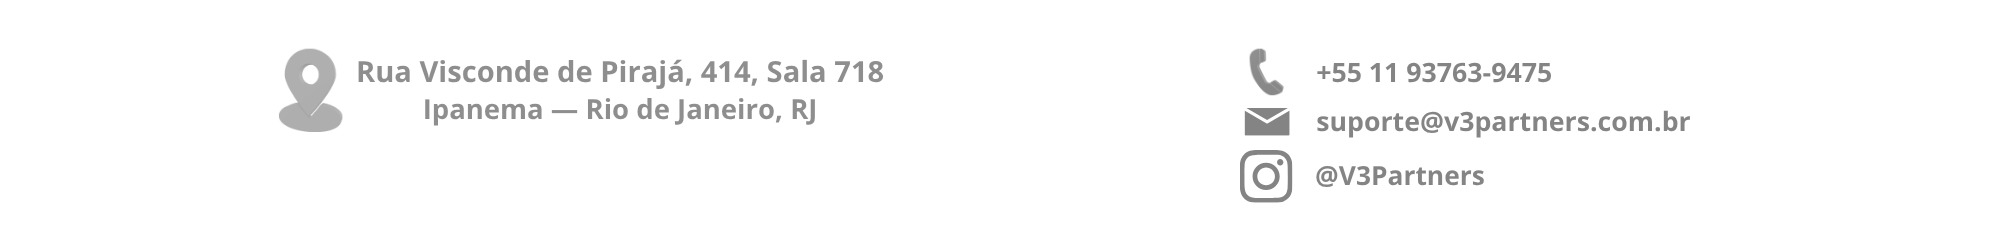
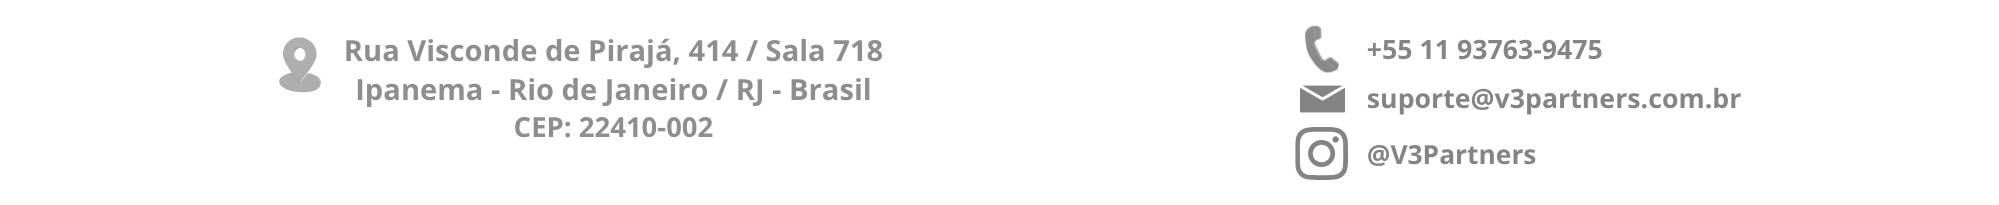
fix(contratos): rodape do timbrado sem sobreposicao ao selo da CertOne
A CertOne carimba o selo de validacao (texto + ICP Brasil) entre 27,60 e 28,70 cm da folha, em cima do rodape antigo (26,61 a 28,62 cm).

- timbrado-rodape.jpg recortado (1999x205 px, 15,98 x 1,64 cm)
- rodape sobe para 25,91 a 27,55 cm (PDF, .docx e pre-visualizacao)
- margem de baixo do PDF 3,2 -> 3,8 cm e do .docx 1760 -> 2150 twips
- medido com o gerador real: conteudo do rodape 26,09 a 27,33 cm, folga de 0,27 cm ate o selo

diff --git a/lib/esignature/clicksign-provider.ts b/lib/esignature/clicksign-provider.ts
@@ -174,7 +174,7 @@ export async function htmlToPdfBase64(html: string, opts?: { letterhead?: string
       ? `<div style="position:relative;width:100%;height:100%">${note}<img src="${logoUri}" style="position:absolute;left:8.06cm;top:0.73cm;width:4.89cm;height:2.33cm"></div>`
       : "<div></div>";
     const footerTemplate = rodapeUri
-      ? `<div style="position:relative;width:100%;height:100%"><img src="${rodapeUri}" style="position:absolute;left:2.85cm;top:0.60cm;width:15.98cm;height:2.01cm"></div>`
+      ? `<div style="position:relative;width:100%;height:100%"><img src="${rodapeUri}" style="position:absolute;left:2.85cm;top:0.51cm;width:15.98cm;height:1.64cm"></div>`
       : "<div></div>";
 
     const pdfBuffer = await page.pdf({
@@ -183,7 +183,7 @@ export async function htmlToPdfBase64(html: string, opts?: { letterhead?: string
       displayHeaderFooter,
       headerTemplate,
       footerTemplate,
-      margin: displayHeaderFooter ? { top: "3.6cm", bottom: "3.2cm", left: "0", right: "0" } : { top: "0", bottom: "0", left: "0", right: "0" },
+      margin: displayHeaderFooter ? { top: "3.6cm", bottom: "3.8cm", left: "0", right: "0" } : { top: "0", bottom: "0", left: "0", right: "0" },
     });
     return `data:application/pdf;base64,${Buffer.from(pdfBuffer).toString("base64")}`;
   } finally {

diff --git a/lib/contract-docx-render.ts b/lib/contract-docx-render.ts
@@ -421,10 +421,10 @@ async function buildLetterheadHeader(opts?: DocxRenderOptions): Promise<Header> 
       new ImageRun({
         data: rodape,
         type: "jpg",
-        transformation: { width: 15.98 * 96 / 2.54, height: 2.01 * 96 / 2.54 },
+        transformation: { width: 15.98 * 96 / 2.54, height: 1.64 * 96 / 2.54 },
         floating: {
           horizontalPosition: { relative: HorizontalPositionRelativeFrom.PAGE, offset: 2.85 * CM },
-          verticalPosition: { relative: VerticalPositionRelativeFrom.PAGE, offset: 26.61 * CM },
+          verticalPosition: { relative: VerticalPositionRelativeFrom.PAGE, offset: 25.91 * CM },
           wrap: { type: TextWrappingType.TOP_AND_BOTTOM },
         },
       }),
@@ -542,7 +542,7 @@ export async function renderContractDocx(fullHtml: string, parties?: ContractPar
           // da lib docx (que já é A4 hoje, mas sem garantia contra mudança
           // futura da dependência).
           size: { width: 11910, height: 16840 },
-          margin: { top: 2020, right: 708, bottom: 1760, left: 425, header: 709, footer: 1573, gutter: 0 },
+          margin: { top: 2020, right: 708, bottom: 2150, left: 425, header: 709, footer: 1573, gutter: 0 },
         },
       },
       children,

diff --git a/lib/contract-render.ts b/lib/contract-render.ts
@@ -307,7 +307,7 @@ body{font-family:'DM Sans',sans-serif;background:#FFFFFF;color:#13223A;padding:1
    Chromium, documentada e testada em htmlToPdfBase64). */
 @media screen{
 .timbrado-logo{position:fixed;left:8.06cm;top:1.25cm;width:4.89cm;height:2.33cm;z-index:2}
-.timbrado-rodape{position:fixed;left:2.85cm;top:26.61cm;width:15.98cm;height:2.01cm;z-index:2}
+.timbrado-rodape{position:fixed;left:2.85cm;top:25.91cm;width:15.98cm;height:1.64cm;z-index:2}
 }
 @media print{.timbrado-logo,.timbrado-rodape{display:none}}
 .header,h1,h2,h3,p,.parties,.footer{position:relative;z-index:1}
